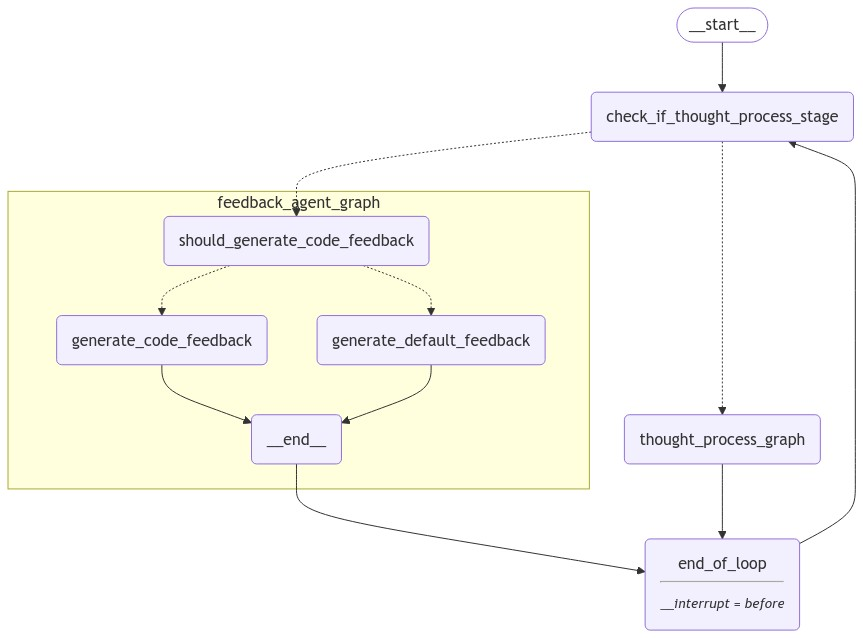
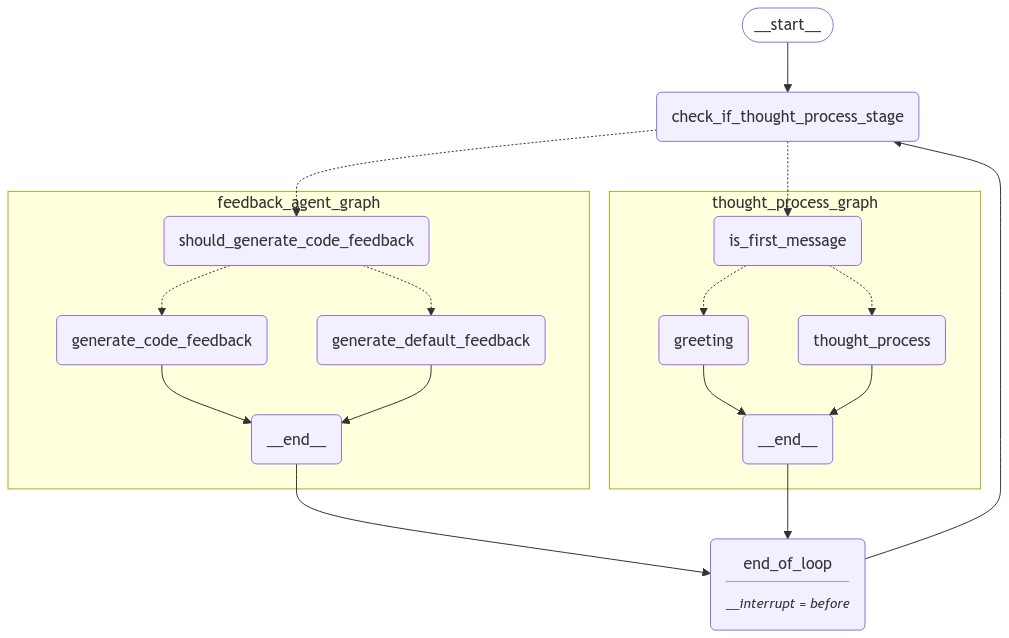
fix an error and update diagram

diff --git a/backend/agents/subgraphs/thought_process/graph.py b/backend/agents/subgraphs/thought_process/graph.py
@@ -92,8 +92,11 @@ Important: Only return the amended reply, nothing else such as "Here is the amen
 g = StateGraph(OverallState)
 g.add_edge(START, n(is_first_message))
 
+g.add_node(n(is_first_message), RunnablePassthrough())
 g.add_conditional_edges(
-    n(is_first_message), is_first_message, [(n(greeting), n(thought_process))]
+    n(is_first_message),
+    is_first_message,
+    [n(greeting), n(thought_process)],
 )
 
 g.add_node(greeting)
